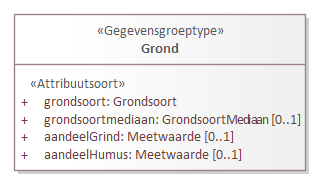
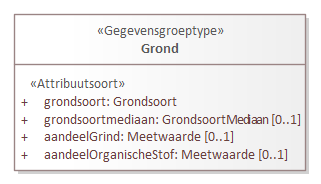
Conceptualmodel-MilieuhygienischbodemonderzoekSAD-0.2-1-20230126-20230207-144252

Changed region(s): [[0.2804, 0.8152, 0.9034, 0.8967]]

diff --git a/data/SAD-cat.msword.html b/data/SAD-cat.msword.html
@@ -15,7 +15,7 @@
    <body>
       <p>Conceptual model/Milieuhygienisch bodemonderzoek SAD/20230126</p>
       <p>Imvertor: 2.0.0</p>
-      <p>Model release: Conceptualmodel-MilieuhygienischbodemonderzoekSAD-0.2-1-20230126-20230207-130243</p>
+      <p>Model release: Conceptualmodel-MilieuhygienischbodemonderzoekSAD-0.2-1-20230126-20230207-144252</p>
       <hr>
       <section>
          <h1>Artikel 1 Definitie van registratieobject, entiteiten en attributen</h1>
@@ -65,7 +65,7 @@
          <section>
             <h2>Het domeinmodel</h2>
             <section id="">
-               <div class="imageinfo overview"><img src="Images/EAID_FABA90F8_223C_433d_BAE3_74F87B3DC220.png" usemap="#imagemap-EAID_FABA90F8_223C_433d_BAE3_74F87B3DC220" alt="Diagram &#xA;                        &#xA;                     "><map name="imagemap-EAID_FABA90F8_223C_433d_BAE3_74F87B3DC220"><area shape="rect" alt="Bodemlaag" coords="606,740,901,973" href="#graph_EAID_88CF9E45_3E0E_40da_96C1_2CDD80B69F6F"><area shape="rect" alt="Boring" coords="31,730,368,981" href="#graph_EAID_40FFF5B9_99C5_4c21_9D72_A3D1DD3C857F"><area shape="rect" alt="Registratieobject" coords="45,14,353,188" href="#graph_EAID_67DBE718_38E0_4ead_8649_72EA0B4A2355"><area shape="rect" alt="Bodemonderzoek" coords="14,267,385,607" href="#graph_EAID_ABAADB49_C747_4775_A739_CC832CAD59F1"></map><p><b>Domeinmodel milieuhygienisch bodemonderzoek</b></p>
+               <div class="imageinfo overview"><img src="Images/EAID_FABA90F8_223C_433d_BAE3_74F87B3DC220.png" usemap="#imagemap-EAID_FABA90F8_223C_433d_BAE3_74F87B3DC220" alt="Diagram &#xA;                        &#xA;                     "><map name="imagemap-EAID_FABA90F8_223C_433d_BAE3_74F87B3DC220"><area shape="rect" alt="Bodemlaag" coords="606,741,901,974" href="#graph_EAID_88CF9E45_3E0E_40da_96C1_2CDD80B69F6F"><area shape="rect" alt="Boring" coords="31,730,368,981" href="#graph_EAID_40FFF5B9_99C5_4c21_9D72_A3D1DD3C857F"><area shape="rect" alt="Registratieobject" coords="45,14,353,188" href="#graph_EAID_67DBE718_38E0_4ead_8649_72EA0B4A2355"><area shape="rect" alt="Bodemonderzoek" coords="14,267,385,607" href="#graph_EAID_ABAADB49_C747_4775_A739_CC832CAD59F1"></map><p><b>Domeinmodel milieuhygienisch bodemonderzoek</b></p>
                </div>
             </section>
          </section>
@@ -576,7 +576,7 @@
                            </tr>
                         </tbody>
                      </table>
-                     </section><a class="anchor" id="detail_d69078e3265"></a><section id="detail_d69078e3265">
+                     </section><a class="anchor" id="detail_d69080e3268"></a><section id="detail_d69080e3268">
                      <h4>  registratiegeschiedenis</h4>
                      <table style="width: 100%;">
                         <colgroup style="width: 30%;"></colgroup>
@@ -609,7 +609,7 @@
                            </tr>
                         </tbody>
                      </table>
-                  </section><a class="anchor" id="detail_d69078e3450"></a><section id="detail_d69078e3450">
+                  </section><a class="anchor" id="detail_d69080e3453"></a><section id="detail_d69080e3453">
                      <h4>  gestandaardiseerde locatie</h4>
                      <table style="width: 100%;">
                         <colgroup style="width: 30%;"></colgroup>
@@ -652,7 +652,7 @@
                            </tr>
                         </tbody>
                      </table>
-                  </section><a class="anchor" id="detail_d69078e3684"></a><section id="detail_d69078e3684">
+                  </section><a class="anchor" id="detail_d69080e3687"></a><section id="detail_d69080e3687">
                      <h4>  rapport</h4>
                      <table style="width: 100%;">
                         <colgroup style="width: 30%;"></colgroup>
@@ -685,8 +685,8 @@
                            </tr>
                         </tbody>
                      </table>
-                  </section><a class="anchor" id="detail_association_Model_Bodemonderzoek_bestaatuit"></a><section id="detail_association_Model_Bodemonderzoek_bestaatuit">
-                     <h4>  </h4>
+                  </section><a class="anchor" id="detail_association_Model_Bodemonderzoek_Boring"></a><section id="detail_association_Model_Bodemonderzoek_Boring">
+                     <h4>  Boring</h4>
                      <table style="width: 100%;">
                         <colgroup style="width: 30%;"></colgroup>
                         <colgroup style="width: 70%;"></colgroup>
@@ -712,7 +712,7 @@
                            </tr>
                            <tr>
                               <th>Relatierol naam</th>
-                              <td></td>
+                              <td>Boring</td>
                            </tr>
                            <tr>
                               <th>Bron</th>
@@ -1824,7 +1824,7 @@
                            </tr>
                         </tbody>
                      </table>
-                     </section><a class="anchor" id="detail_d69078e7971"></a><section id="detail_d69078e7971">
+                     </section><a class="anchor" id="detail_d69080e7977"></a><section id="detail_d69080e7977">
                      <h4>  gestandaardiseerde locatie</h4>
                      <table style="width: 100%;">
                         <colgroup style="width: 30%;"></colgroup>
@@ -1858,7 +1858,7 @@
                            </tr>
                         </tbody>
                      </table>
-                  </section><a class="anchor" id="detail_d69078e8156"></a><section id="detail_d69078e8156">
+                  </section><a class="anchor" id="detail_d69080e8162"></a><section id="detail_d69080e8162">
                      <h4>  verticalePositie</h4>
                      <table style="width: 100%;">
                         <colgroup style="width: 30%;"></colgroup>
@@ -1892,8 +1892,8 @@
                            </tr>
                         </tbody>
                      </table>
-                  </section><a class="anchor" id="detail_association_Model_Boring_bestaatuit"></a><section id="detail_association_Model_Boring_bestaatuit">
-                     <h4>  </h4>
+                  </section><a class="anchor" id="detail_association_Model_Boring_Bodemlaag"></a><section id="detail_association_Model_Boring_Bodemlaag">
+                     <h4>  Bodemlaag</h4>
                      <table style="width: 100%;">
                         <colgroup style="width: 30%;"></colgroup>
                         <colgroup style="width: 70%;"></colgroup>
@@ -1919,7 +1919,7 @@
                            </tr>
                            <tr>
                               <th>Relatierol naam</th>
-                              <td></td>
+                              <td>Bodemlaag</td>
                            </tr>
                            <tr>
                               <th>Bron</th>
@@ -2246,7 +2246,7 @@
                            </tr>
                         </tbody>
                      </table>
-                     </section><a class="anchor" id="detail_d69078e9514"></a><section id="detail_d69078e9514">
+                     </section><a class="anchor" id="detail_d69080e9520"></a><section id="detail_d69080e9520">
                      <h4>  grondsoort</h4>
                      <table style="width: 100%;">
                         <colgroup style="width: 30%;"></colgroup>
@@ -2260,8 +2260,8 @@
                               <th>Definitie</th>
                               <td>
                                  
-                                 <p>Het type grondsoort dat in de bodemlaag is aangetroffen. De domeinwaarde bepaalt de
-                                    beschrijfnorm die gebruikt is. </p>
+                                 <p>De grondsoort die in de bodemlaag is aangetroffen. De domeinwaarde bepaalt de beschrijfnorm
+                                    die gebruikt is. </p>
                                  </td>
                            </tr>
                            <tr>
@@ -2280,7 +2280,7 @@
                            </tr>
                         </tbody>
                      </table>
-                  </section><a class="anchor" id="detail_d69078e9699"></a><section id="detail_d69078e9699">
+                  </section><a class="anchor" id="detail_d69080e9705"></a><section id="detail_d69080e9705">
                      <h4>  kleur</h4>
                      <table style="width: 100%;">
                         <colgroup style="width: 30%;"></colgroup>
@@ -2313,7 +2313,7 @@
                            </tr>
                         </tbody>
                      </table>
-                  </section><a class="anchor" id="detail_d69078e9884"></a><section id="detail_d69078e9884">
+                  </section><a class="anchor" id="detail_d69080e9890"></a><section id="detail_d69080e9890">
                      <h4>  bijzonderheid</h4>
                      <table style="width: 100%;">
                         <colgroup style="width: 30%;"></colgroup>
@@ -2327,7 +2327,7 @@
                               <th>Definitie</th>
                               <td>
                                  
-                                 <p>Bijzondere bestandsdelen die zijn aangetroffen in de bodemlaag</p>
+                                 <p>De bijzondere bestandsdelen die zijn aangetroffen in de bodemlaag</p>
                                  </td>
                            </tr>
                            <tr>
@@ -2363,7 +2363,7 @@
                            <th>Definitie</th>
                            <td>
                               
-                              <p>De grond waar de laag uit bestaat (conform NEN5104)</p>
+                              <p>De grond waar de bodemlaag uit bestaat (conform NEN5104)</p>
                               </td>
                         </tr>
                      </tbody>
@@ -2425,7 +2425,7 @@
                               <th>Definitie</th>
                               <td>
                                  
-                                 <p>De mediaan van de grondsoort (Bronhouder NEN)</p>
+                                 <p>De mediaan van de grondsoort aangetroffen in de bodemlaag (Bronhouder NEN)</p>
                                  </td>
                            </tr>
                            <tr>
@@ -2467,8 +2467,8 @@
                               <th>Definitie</th>
                               <td>
                                  
-                                 <p>Het aandeel grind dat in deze laag is gevonden, uitgedrukt in procent (%), op basis
-                                    van massa</p>
+                                 <p>Het aandeel grind dat in deze bodemlaag is gevonden, uitgedrukt in procent (%), op
+                                    basis van massa</p>
                                  </td>
                            </tr>
                            <tr>
@@ -2490,8 +2490,8 @@
                            </tr>
                         </tbody>
                      </table>
-                     </section><a class="anchor" id="detail_attribute_Model_Grond_aandeelHumus"></a><section id="detail_attribute_Model_Grond_aandeelHumus">
-                     <h4>  aandeelHumus</h4>
+                     </section><a class="anchor" id="detail_attribute_Model_Grond_aandeelOrganischeStof"></a><section id="detail_attribute_Model_Grond_aandeelOrganischeStof">
+                     <h4>  aandeelOrganischeStof</h4>
                      
                      <table style="width: 100%;">
                         <colgroup style="width: 30%;"></colgroup>
@@ -2505,8 +2505,8 @@
                               <th>Definitie</th>
                               <td>
                                  
-                                 <p>Het aandeel organische stof dat in deze laag is gevonden, uitgedrukt in procent (%),
-                                    op basis van massa</p>
+                                 <p>Het aandeel organische stof dat in deze bodemlaag is gevonden, uitgedrukt in procent
+                                    (%), op basis van massa</p>
                                  </td>
                            </tr>
                            <tr>

diff --git a/data/SAD-cat.respec.html b/data/SAD-cat.respec.html
@@ -43,7 +43,7 @@
       </section>
    <section id="">
       <h2>Het domeinmodel   </h2>
-      <div class="imageinfo overview"><img src="data/Images/EAID_FABA90F8_223C_433d_BAE3_74F87B3DC220.png" usemap="#imagemap-EAID_FABA90F8_223C_433d_BAE3_74F87B3DC220" alt="Diagram &#xA;                        &#xA;                     "><map name="imagemap-EAID_FABA90F8_223C_433d_BAE3_74F87B3DC220"><area shape="rect" alt="Bodemlaag" coords="606,740,901,973" href="#graph_EAID_88CF9E45_3E0E_40da_96C1_2CDD80B69F6F"><area shape="rect" alt="Boring" coords="31,730,368,981" href="#graph_EAID_40FFF5B9_99C5_4c21_9D72_A3D1DD3C857F"><area shape="rect" alt="Registratieobject" coords="45,14,353,188" href="#graph_EAID_67DBE718_38E0_4ead_8649_72EA0B4A2355"><area shape="rect" alt="Bodemonderzoek" coords="14,267,385,607" href="#graph_EAID_ABAADB49_C747_4775_A739_CC832CAD59F1"></map><p><b>Domeinmodel milieuhygienisch bodemonderzoek</b></p>
+      <div class="imageinfo overview"><img src="data/Images/EAID_FABA90F8_223C_433d_BAE3_74F87B3DC220.png" usemap="#imagemap-EAID_FABA90F8_223C_433d_BAE3_74F87B3DC220" alt="Diagram &#xA;                        &#xA;                     "><map name="imagemap-EAID_FABA90F8_223C_433d_BAE3_74F87B3DC220"><area shape="rect" alt="Bodemlaag" coords="606,741,901,974" href="#graph_EAID_88CF9E45_3E0E_40da_96C1_2CDD80B69F6F"><area shape="rect" alt="Boring" coords="31,730,368,981" href="#graph_EAID_40FFF5B9_99C5_4c21_9D72_A3D1DD3C857F"><area shape="rect" alt="Registratieobject" coords="45,14,353,188" href="#graph_EAID_67DBE718_38E0_4ead_8649_72EA0B4A2355"><area shape="rect" alt="Bodemonderzoek" coords="14,267,385,607" href="#graph_EAID_ABAADB49_C747_4775_A739_CC832CAD59F1"></map><p><b>Domeinmodel milieuhygienisch bodemonderzoek</b></p>
       </div>
    </section>
    <section id="">
@@ -552,7 +552,7 @@
                   </tr>
                </tbody>
             </table>
-            </section><a class="anchor" id="detail_d69078e3265"></a><section id="detail_d69078e3265">
+            </section><a class="anchor" id="detail_d69080e3268"></a><section id="detail_d69080e3268">
             <h4>  registratiegeschiedenis</h4>
             <table style="width: 100%;">
                <colgroup style="width: 30%;"></colgroup>
@@ -585,7 +585,7 @@
                   </tr>
                </tbody>
             </table>
-         </section><a class="anchor" id="detail_d69078e3450"></a><section id="detail_d69078e3450">
+         </section><a class="anchor" id="detail_d69080e3453"></a><section id="detail_d69080e3453">
             <h4>  gestandaardiseerde locatie</h4>
             <table style="width: 100%;">
                <colgroup style="width: 30%;"></colgroup>
@@ -628,7 +628,7 @@
                   </tr>
                </tbody>
             </table>
-         </section><a class="anchor" id="detail_d69078e3684"></a><section id="detail_d69078e3684">
+         </section><a class="anchor" id="detail_d69080e3687"></a><section id="detail_d69080e3687">
             <h4>  rapport</h4>
             <table style="width: 100%;">
                <colgroup style="width: 30%;"></colgroup>
@@ -661,8 +661,8 @@
                   </tr>
                </tbody>
             </table>
-         </section><a class="anchor" id="detail_association_Model_Bodemonderzoek_bestaatuit"></a><section id="detail_association_Model_Bodemonderzoek_bestaatuit">
-            <h4>  </h4>
+         </section><a class="anchor" id="detail_association_Model_Bodemonderzoek_Boring"></a><section id="detail_association_Model_Bodemonderzoek_Boring">
+            <h4>  Boring</h4>
             <table style="width: 100%;">
                <colgroup style="width: 30%;"></colgroup>
                <colgroup style="width: 70%;"></colgroup>
@@ -688,7 +688,7 @@
                   </tr>
                   <tr>
                      <th>Relatierol naam</th>
-                     <td></td>
+                     <td>Boring</td>
                   </tr>
                   <tr>
                      <th>Bron</th>
@@ -1800,7 +1800,7 @@
                   </tr>
                </tbody>
             </table>
-            </section><a class="anchor" id="detail_d69078e7971"></a><section id="detail_d69078e7971">
+            </section><a class="anchor" id="detail_d69080e7977"></a><section id="detail_d69080e7977">
             <h4>  gestandaardiseerde locatie</h4>
             <table style="width: 100%;">
                <colgroup style="width: 30%;"></colgroup>
@@ -1834,7 +1834,7 @@
                   </tr>
                </tbody>
             </table>
-         </section><a class="anchor" id="detail_d69078e8156"></a><section id="detail_d69078e8156">
+         </section><a class="anchor" id="detail_d69080e8162"></a><section id="detail_d69080e8162">
             <h4>  verticalePositie</h4>
             <table style="width: 100%;">
                <colgroup style="width: 30%;"></colgroup>
@@ -1868,8 +1868,8 @@
                   </tr>
                </tbody>
             </table>
-         </section><a class="anchor" id="detail_association_Model_Boring_bestaatuit"></a><section id="detail_association_Model_Boring_bestaatuit">
-            <h4>  </h4>
+         </section><a class="anchor" id="detail_association_Model_Boring_Bodemlaag"></a><section id="detail_association_Model_Boring_Bodemlaag">
+            <h4>  Bodemlaag</h4>
             <table style="width: 100%;">
                <colgroup style="width: 30%;"></colgroup>
                <colgroup style="width: 70%;"></colgroup>
@@ -1895,7 +1895,7 @@
                   </tr>
                   <tr>
                      <th>Relatierol naam</th>
-                     <td></td>
+                     <td>Bodemlaag</td>
                   </tr>
                   <tr>
                      <th>Bron</th>
@@ -2222,7 +2222,7 @@
                   </tr>
                </tbody>
             </table>
-            </section><a class="anchor" id="detail_d69078e9514"></a><section id="detail_d69078e9514">
+            </section><a class="anchor" id="detail_d69080e9520"></a><section id="detail_d69080e9520">
             <h4>  grondsoort</h4>
             <table style="width: 100%;">
                <colgroup style="width: 30%;"></colgroup>
@@ -2236,8 +2236,8 @@
                      <th>Definitie</th>
                      <td>
                         
-                        <p>Het type grondsoort dat in de bodemlaag is aangetroffen. De domeinwaarde bepaalt de
-                           beschrijfnorm die gebruikt is. </p>
+                        <p>De grondsoort die in de bodemlaag is aangetroffen. De domeinwaarde bepaalt de beschrijfnorm
+                           die gebruikt is. </p>
                         </td>
                   </tr>
                   <tr>
@@ -2256,7 +2256,7 @@
                   </tr>
                </tbody>
             </table>
-         </section><a class="anchor" id="detail_d69078e9699"></a><section id="detail_d69078e9699">
+         </section><a class="anchor" id="detail_d69080e9705"></a><section id="detail_d69080e9705">
             <h4>  kleur</h4>
             <table style="width: 100%;">
                <colgroup style="width: 30%;"></colgroup>
@@ -2289,7 +2289,7 @@
                   </tr>
                </tbody>
             </table>
-         </section><a class="anchor" id="detail_d69078e9884"></a><section id="detail_d69078e9884">
+         </section><a class="anchor" id="detail_d69080e9890"></a><section id="detail_d69080e9890">
             <h4>  bijzonderheid</h4>
             <table style="width: 100%;">
                <colgroup style="width: 30%;"></colgroup>
@@ -2303,7 +2303,7 @@
                      <th>Definitie</th>
                      <td>
                         
-                        <p>Bijzondere bestandsdelen die zijn aangetroffen in de bodemlaag</p>
+                        <p>De bijzondere bestandsdelen die zijn aangetroffen in de bodemlaag</p>
                         </td>
                   </tr>
                   <tr>
@@ -2339,7 +2339,7 @@
                   <th>Definitie</th>
                   <td>
                      
-                     <p>De grond waar de laag uit bestaat (conform NEN5104)</p>
+                     <p>De grond waar de bodemlaag uit bestaat (conform NEN5104)</p>
                      </td>
                </tr>
             </tbody>
@@ -2401,7 +2401,7 @@
                      <th>Definitie</th>
                      <td>
                         
-                        <p>De mediaan van de grondsoort (Bronhouder NEN)</p>
+                        <p>De mediaan van de grondsoort aangetroffen in de bodemlaag (Bronhouder NEN)</p>
                         </td>
                   </tr>
                   <tr>
@@ -2443,8 +2443,8 @@
                      <th>Definitie</th>
                      <td>
                         
-                        <p>Het aandeel grind dat in deze laag is gevonden, uitgedrukt in procent (%), op basis
-                           van massa</p>
+                        <p>Het aandeel grind dat in deze bodemlaag is gevonden, uitgedrukt in procent (%), op
+                           basis van massa</p>
                         </td>
                   </tr>
                   <tr>
@@ -2466,8 +2466,8 @@
                   </tr>
                </tbody>
             </table>
-            </section><a class="anchor" id="detail_attribute_Model_Grond_aandeelHumus"></a><section id="detail_attribute_Model_Grond_aandeelHumus">
-            <h4>  aandeelHumus</h4>
+            </section><a class="anchor" id="detail_attribute_Model_Grond_aandeelOrganischeStof"></a><section id="detail_attribute_Model_Grond_aandeelOrganischeStof">
+            <h4>  aandeelOrganischeStof</h4>
             
             <table style="width: 100%;">
                <colgroup style="width: 30%;"></colgroup>
@@ -2481,8 +2481,8 @@
                      <th>Definitie</th>
                      <td>
                         
-                        <p>Het aandeel organische stof dat in deze laag is gevonden, uitgedrukt in procent (%),
-                           op basis van massa</p>
+                        <p>Het aandeel organische stof dat in deze bodemlaag is gevonden, uitgedrukt in procent
+                           (%), op basis van massa</p>
                         </td>
                   </tr>
                   <tr>
